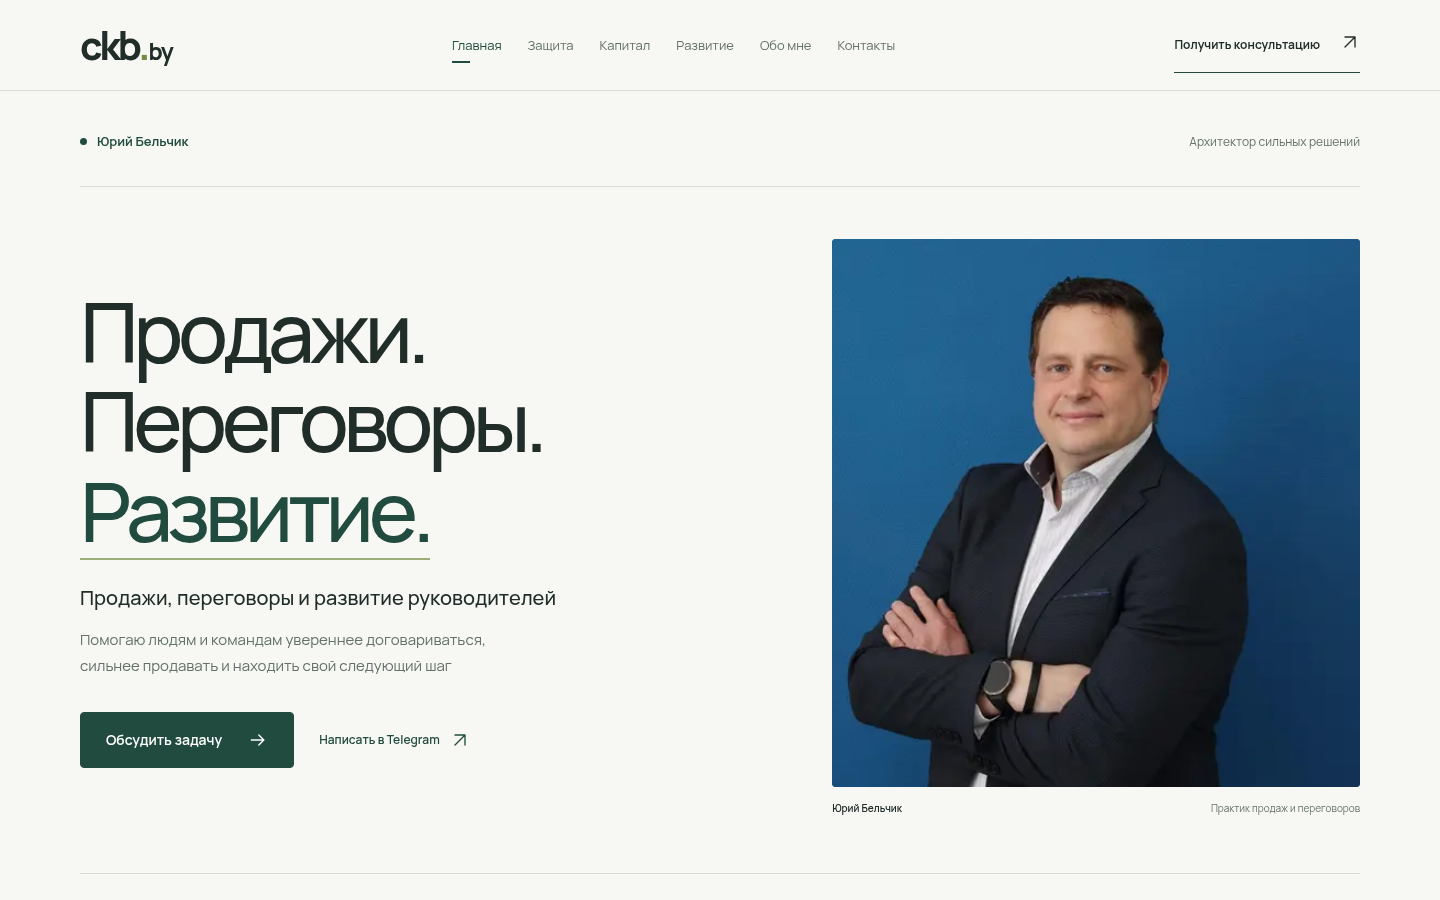
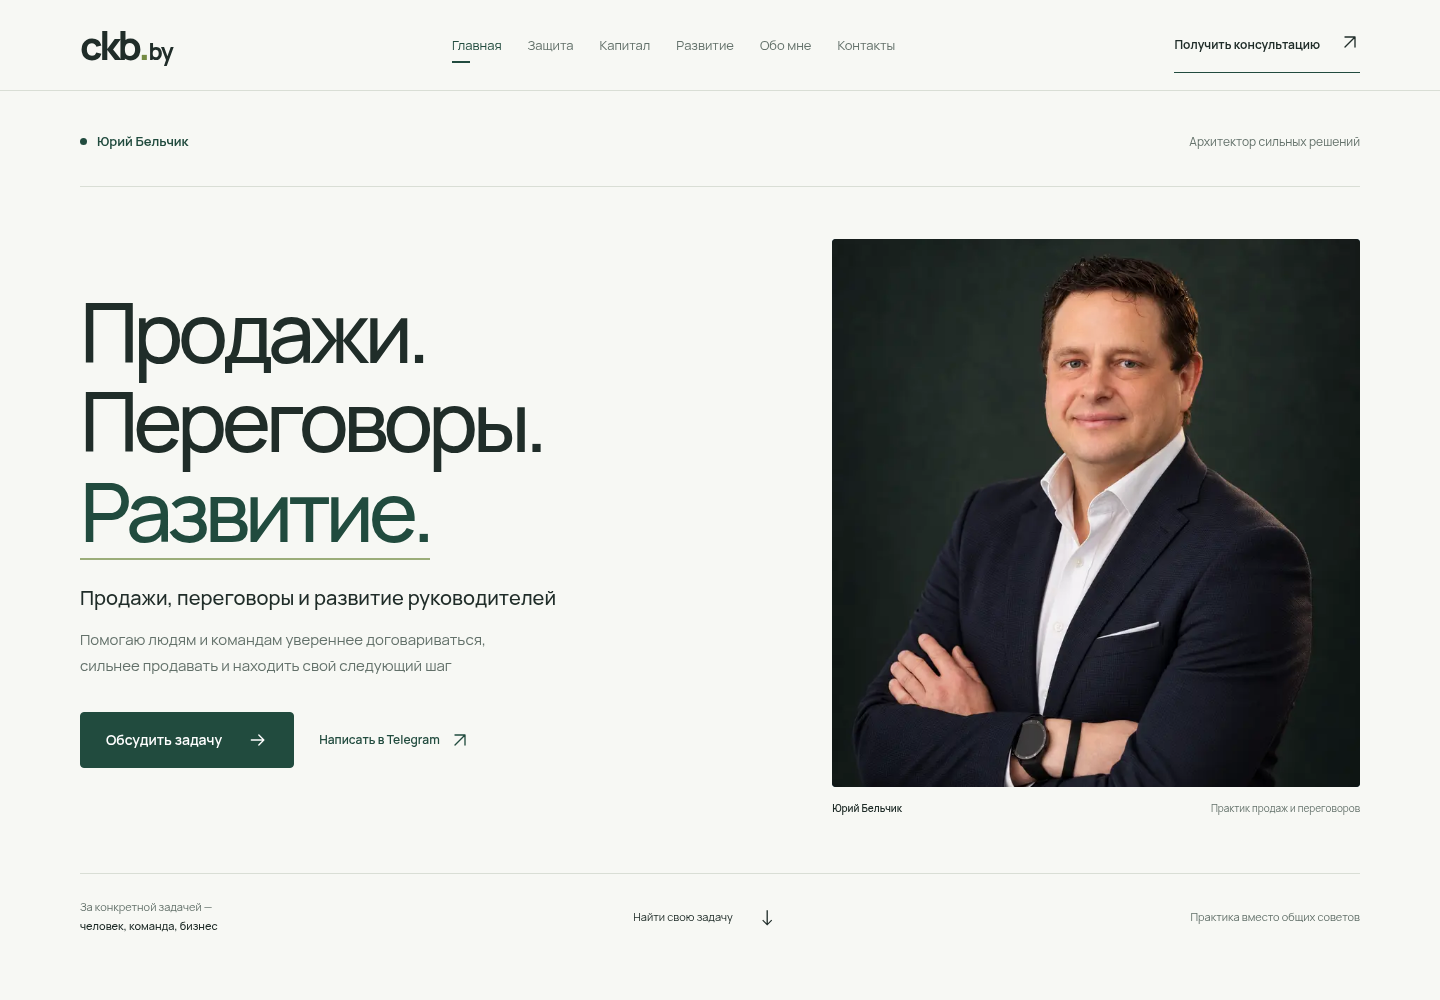
Refresh portraits with requested editorial retouching

diff --git a/site/app/razvitie/page.tsx b/site/app/razvitie/page.tsx
@@ -72,7 +72,7 @@ export default function Development() {
         </div>
       </section>
       <section className="section speaking-section"><div className="container speaking-layout">
-        <figure className="speaking-photo"><Image src="/images/yuri-belchik-speaking.jpg" alt="Юрий Бельчик выступает перед аудиторией" width={1280} height={853} sizes="(max-width: 650px) 100vw, 55vw" /></figure>
+        <figure className="speaking-photo"><Image src="/images/yuri-belchik-speaking-retouched.png" alt="Юрий Бельчик выступает перед аудиторией" width={1536} height={1024} sizes="(max-width: 650px) 100vw, 55vw" /></figure>
         <div><SectionIntro label="Команды и аудитории" title="Практика, которую можно перенести в работу" text="Выступаю как спикер и провожу корпоративные тренинги для отделов продаж. Разбираем реальные переговоры, возражения, разговоры о деньгах и сложные продукты."/><p>Сначала — диагностика текущих диалогов. Затем — отработка формулировок и закрепление навыков с понятными критериями качества.</p><Link className="text-link" href={consultation()}>Обсудить выступление или тренинг <Arrow /></Link></div>
       </div></section>
       <section className="section">

diff --git a/site/app/globals.css b/site/app/globals.css
@@ -1929,3 +1929,6 @@ details > p {
 .portrait{margin:0;min-width:0}.portrait-frame{position:relative;aspect-ratio:1/1.04;overflow:hidden;border-radius:4px;background:#1d4863}.portrait-frame img{object-fit:cover;object-position:47% 40%}.portrait figcaption{display:flex;justify-content:space-between;gap:15px;margin-top:13px;font-size:10px;color:var(--muted)}.portrait figcaption span:first-child{color:var(--ink);font-weight:600}.about-portrait .portrait-frame{aspect-ratio:4/5}.speaking-layout{display:grid;grid-template-columns:1.2fr 1fr;align-items:center;gap:75px}.speaking-photo{margin:0}.speaking-photo img{display:block;width:100%;height:auto;border-radius:4px}.speaking-layout .section-intro{margin-bottom:20px}.speaking-layout p{font-size:15px}.speaking-layout .text-link{margin-top:20px}
 @media(max-width:900px){.speaking-layout{gap:35px}.portrait figcaption{font-size:9px}}
 @media(max-width:650px){.hero-portrait .portrait-frame{aspect-ratio:1/1.02}.portrait figcaption{font-size:10px;flex-wrap:wrap;gap:5px}.speaking-layout{grid-template-columns:1fr;gap:32px}.about-portrait .portrait-frame{aspect-ratio:1/1.1}.speaking-layout h2{font-size:32px}}
+
+/* Keep space above the head in the retouched vertical portrait. */
+.portrait-frame img { object-position: 50% 15%; }

diff --git a/site/components/portrait.tsx b/site/components/portrait.tsx
@@ -1,7 +1,7 @@
 import Image from "next/image";
 export function Portrait({ hero = false }: { hero?: boolean }) {
   return <figure className={hero ? "portrait hero-portrait" : "portrait about-portrait"}>
-    <div className="portrait-frame"><Image src="/images/yuri-belchik-portrait.jpg" alt="Юрий Бельчик — практик продаж и переговоров" fill sizes={hero ? "(max-width: 650px) 100vw, 45vw" : "(max-width: 650px) 100vw, 40vw"} preload={hero} /></div>
+    <div className="portrait-frame"><Image src="/images/yuri-belchik-portrait-retouched.png" alt="Юрий Бельчик — практик продаж и переговоров" fill sizes={hero ? "(max-width: 650px) 100vw, 45vw" : "(max-width: 650px) 100vw, 40vw"} preload={hero} /></div>
     <figcaption><span>Юрий Бельчик</span><span>Практик продаж и переговоров</span></figcaption>
   </figure>;
 }

diff --git a/site/app/page.tsx b/site/app/page.tsx
@@ -16,7 +16,7 @@ export default function Home() {
         "@id": `${siteUrl}/#yuri`,
         name: "Юрий Бельчик",
         url: siteUrl,
-        image: `${siteUrl}/images/yuri-belchik-portrait.jpg`,
+        image: `${siteUrl}/images/yuri-belchik-portrait-retouched.png`,
         telephone: contact.phone,
         email: contact.email,
         sameAs: [contact.telegram],

diff --git a/PROJECT.md b/PROJECT.md
@@ -60,3 +60,6 @@ Install/start instructions сохранены в черновике среды; 
 
 ## Публикация первой версии
 Исходники сохранены в GitHub kaskoexpress45-eng/ckb.by, main. Vercel CLI создал временный deployment https://temporary-quick-delta-mvspia8.vercel.app; он истекает примерно через час после создания, если владелец не закрепит его. Не считать этот адрес постоянным. Секретная ссылка закрепления в репозиторий не сохраняется. Публичные страницы проверены HTTP 200 с TLS-проверкой. Браузерная проверка опубликованного HTTPS в этой среде остановилась на доверии Chromium к сертификату сетевого прокси; проверка TLS не отключалась. Локальная браузерная проверка прошла. На исходном CKB.by обнаружены 702 статьи; их URL сохранены, описан план миграции. Основной домен и WordPress не переключались. Переменные для Supabase/Telegram отсутствуют; форма остаётся закрытой, оператор данных не подтверждён. У пользователя запрошены состояние проекта/бота, сведения оператора и закрепление Vercel.
+
+## Коррекция фотографий по обратной связи
+Пользователь отклонил прежние фото и поручил сделать более привлекательный мужской образ. Генеративно обработаны исходные портрет и выступление. Новый портрет — тёмный спокойный фон, выразительный свет, естественная ретушь и уверенная подача. Обработанные версии заменили фотографии в главной/биографии/развитии; исходные JPG сохранены. Кадрирование удерживает голову внутри кадра на мобильном. Задачи закрепления Vercel, бота/базы и оператора данных остаются открытыми.

diff --git a/content/public-sources.md b/content/public-sources.md
@@ -14,3 +14,6 @@
 Исходная политика конфиденциальности WordPress содержит шаблон о комментариях и аккаунтах и не перенесена в новый сайт как политика приёма заявок. Публикуемый счётчик Метрики не активирован в новой версии без отдельной настройки. Утверждение о текущем количестве обучаемых отделов не перенесено как постоянная характеристика.
 
 Найден действующий сайт WordPress. Созданная Next.js-версия остаётся отдельной локальной реализацией; опубликованный сайт не изменялся. При будущем переносе нужно сохранить старые URL или настроить редиректы.
+
+## Ретушь по запросу владельца
+По прямому поручению пользователя портрет и фото выступления обработаны генеративным инструментом: улучшены свет, цвет и подача. На сайте используются файлы *-retouched.png, это обработанные изображения, а не неизменённые оригиналы с CKB.by. Исходные JPG сохранены. Портрет получил новый студийный фон; снимок выступления использует исходное событие как основу. Не использовать отретушированные детали как новые доказательства фактов об эксперте.
